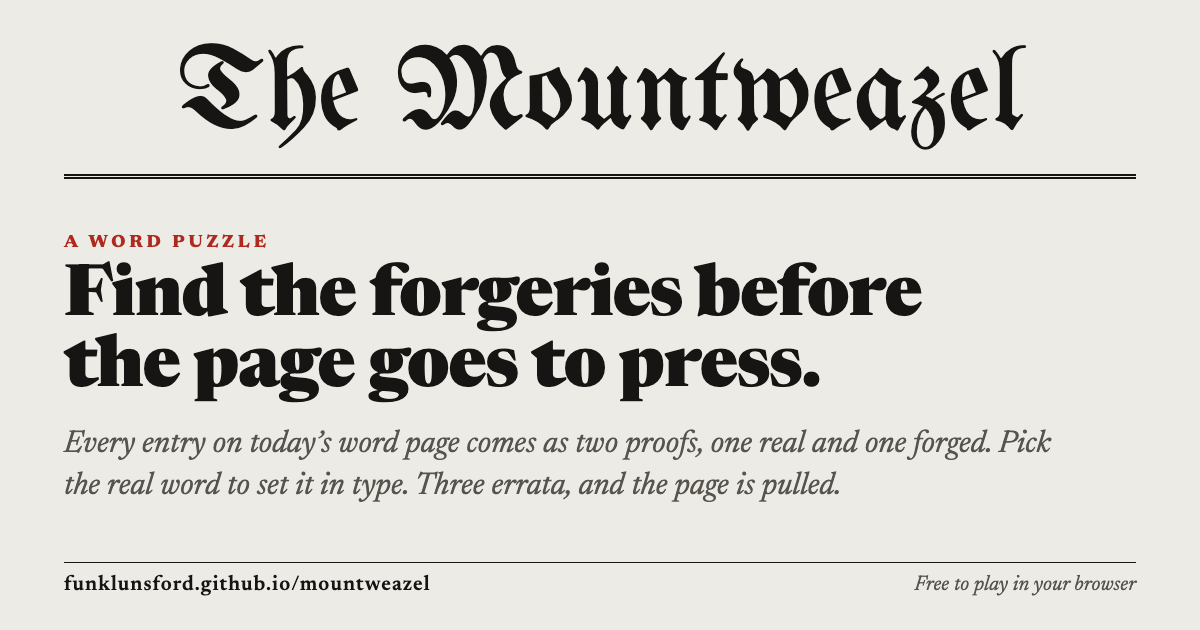
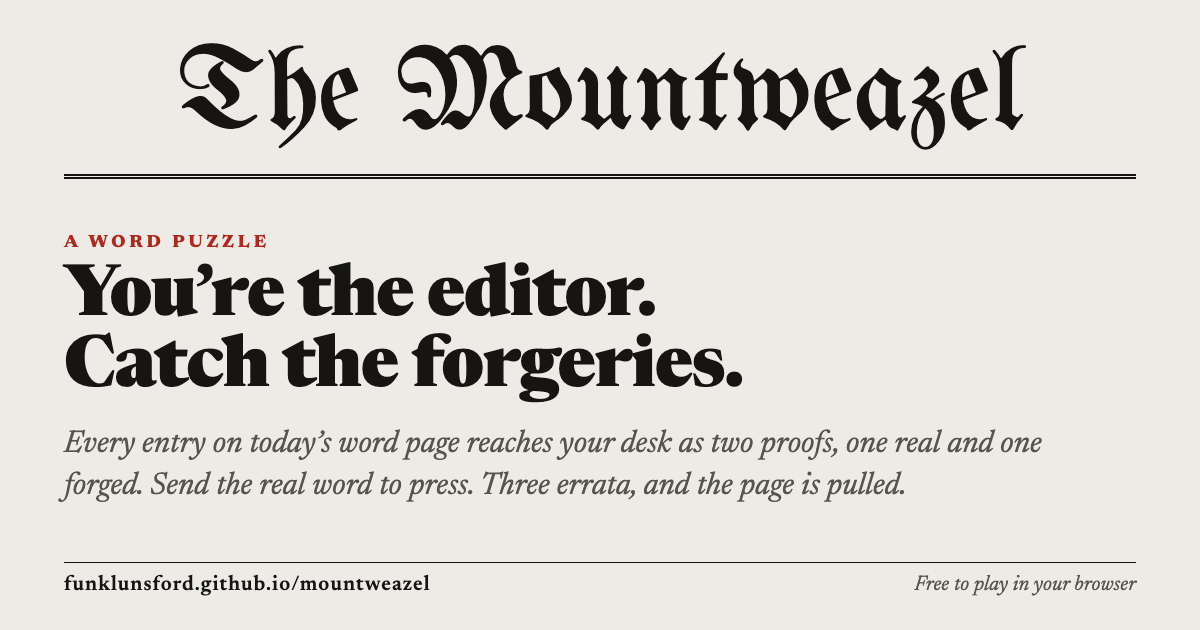
You're the editor; the last of the climb goes
- The game is framed around the player as the paper's editor: the lead
  is "To the editor" / "Forgeries on Today's Word Page", entries reach
  "your desk", each asks "Which goes to press?", and the verdicts and
  the Stop press box speak to you ("Your Page Goes to Press", "Your Page
  Is Pulled at Entry 6", "You set all 12 entries, with 1 erratum").
- No climb is left anywhere: progress is saved as mountweazel-page-N
  (so a climb in progress on the live site starts fresh), and the README
  and .gitignore drop their last mentions.
- The share card says "You're the editor. Catch the forgeries."

Changed region(s): [[0.0308, 0.3921, 0.7708, 0.6635], [0.0617, 0.6635, 0.8942, 0.8143]]

diff --git a/index.html b/index.html
@@ -5,7 +5,7 @@
 <meta name="viewport" content="width=device-width, initial-scale=1, viewport-fit=cover">
 <style>body { margin: 0; }</style>
 <title>Mountweazel</title>
-<meta name="description" content="A word puzzle in the newspaper: every entry on today’s word page comes as two proofs, one real and one forged. Pick the real word to set it in type; a wrong pick goes to press as an erratum, and the third erratum pulls the page. The words grow rarer down the page.">
+<meta name="description" content="A word puzzle in the newspaper, and you’re the editor. Every entry on today’s word page reaches your desk as two proofs, one real and one forged. Send the real word to press; pass a forgery and it’s an erratum, and three errata pull the page. The words grow rarer down the page.">
 <link rel="canonical" href="https://funklunsford.github.io/mountweazel/">
 <meta name="theme-color" content="#ecebe5">
 <meta name="theme-color" media="(prefers-color-scheme: dark)" content="#141413">
@@ -14,31 +14,31 @@
 <!-- Link previews: share/card.html (wide) and share/square.html (square), rendered by `npm run share-card`. -->
 <meta property="og:type" content="website">
 <meta property="og:site_name" content="Mountweazel">
-<meta property="og:title" content="The Mountweazel: find the forgeries on the word page">
-<meta property="og:description" content="A word puzzle in the newspaper: every entry on today’s word page comes as two proofs, one real and one forged. Pick the real word to set it in type; a wrong pick goes to press as an erratum, and the third erratum pulls the page. The words grow rarer down the page.">
+<meta property="og:title" content="The Mountweazel: you’re the editor, and the word page is full of forgeries">
+<meta property="og:description" content="A word puzzle in the newspaper, and you’re the editor. Every entry on today’s word page reaches your desk as two proofs, one real and one forged. Send the real word to press; pass a forgery and it’s an erratum, and three errata pull the page. The words grow rarer down the page.">
 <meta property="og:url" content="https://funklunsford.github.io/mountweazel/">
 <meta property="og:image" content="https://funklunsford.github.io/mountweazel/share/card.png">
 <meta property="og:image:type" content="image/png">
 <meta property="og:image:width" content="1200">
 <meta property="og:image:height" content="630">
-<meta property="og:image:alt" content="The Mountweazel, a word puzzle: find the forgeries before the page goes to press. Every entry comes as two proofs, one real and one forged.">
+<meta property="og:image:alt" content="The Mountweazel, a word puzzle: you’re the editor. Catch the forgeries before they go to press; every entry comes as two proofs, one real and one forged.">
 <meta property="og:image" content="https://funklunsford.github.io/mountweazel/share/square.png">
 <meta property="og:image:type" content="image/png">
 <meta property="og:image:width" content="1200">
 <meta property="og:image:height" content="1200">
 <meta property="og:image:alt" content="A blackletter M in a double-ruled frame, above the words “The Mountweazel, a word puzzle”.">
 <meta name="twitter:card" content="summary_large_image">
-<meta name="twitter:title" content="The Mountweazel: find the forgeries on the word page">
-<meta name="twitter:description" content="A word puzzle in the newspaper: every entry on today’s word page comes as two proofs, one real and one forged. Pick the real word to set it in type; a wrong pick goes to press as an erratum, and the third erratum pulls the page. The words grow rarer down the page.">
+<meta name="twitter:title" content="The Mountweazel: you’re the editor, and the word page is full of forgeries">
+<meta name="twitter:description" content="A word puzzle in the newspaper, and you’re the editor. Every entry on today’s word page reaches your desk as two proofs, one real and one forged. Send the real word to press; pass a forgery and it’s an erratum, and three errata pull the page. The words grow rarer down the page.">
 <meta name="twitter:image" content="https://funklunsford.github.io/mountweazel/share/card.png">
-<meta name="twitter:image:alt" content="The Mountweazel, a word puzzle: find the forgeries before the page goes to press. Every entry comes as two proofs, one real and one forged.">
+<meta name="twitter:image:alt" content="The Mountweazel, a word puzzle: you’re the editor. Catch the forgeries before they go to press; every entry comes as two proofs, one real and one forged.">
 <link rel="preconnect" href="https://fonts.googleapis.com">
 <link rel="preconnect" href="https://fonts.gstatic.com" crossorigin>
 <link rel="stylesheet" href="https://fonts.googleapis.com/css2?family=Caveat:wght@600&family=Newsreader:ital,opsz,wght@0,6..72,400;0,6..72,600;0,6..72,800;1,6..72,400&family=UnifrakturMaguntia&display=swap">
 <style>
-/* A word puzzle inside a newspaper. The masthead and the lead are set like a front page; the game
-   is the word page, which you set one entry at a time from two proofs each. A running head keeps
-   your place and your errata in view. */
+/* A word puzzle inside a newspaper, played as its editor. The masthead and the lead are set like a
+   front page; the game is the word page, which you set one entry at a time from two proofs each. A
+   running head keeps your place and your errata in view. */
 :root {
   --newsprint: #ecebe5; --sheet: #f6f4ee;
   --ink: #161514; --ink-2: #57544d; --rule: #b8b4aa; --shadow: #161514;
@@ -267,8 +267,8 @@ button.card .hw-line { padding-right: 0; }
 <div class="paper">
   <header class="masthead">
     <div class="ear ear-left">
-      <span class="ear-kicker">Today’s page</span>
-      <span>Twelve entries, three errata allowed</span>
+      <span class="ear-kicker">Editor’s desk</span>
+      <span>Twelve entries to pass, three errata allowed</span>
     </div>
     <h1 class="nameplate">The Mountweazel</h1>
     <div class="ear ear-right">
@@ -289,14 +289,14 @@ button.card .hw-line { padding-right: 0; }
 
   <div class="front">
     <article class="lead">
-      <p class="kicker">Lexicography</p>
-      <h2 class="headline">Forgeries Slip Onto the Word Page</h2>
-      <p class="deck">Every entry on today’s page comes as two proofs, one real and one forged. Pick the real word to set it in type. A wrong pick goes to press as an erratum, and the third erratum pulls the page.</p>
+      <p class="kicker">To the editor</p>
+      <h2 class="headline">Forgeries on Today’s Word Page</h2>
+      <p class="deck">You’re the editor. Every entry on today’s word page has come back with a forged twin. Send the real word to press. Pass a forgery and you print an erratum; three errata, and the page is pulled.</p>
       <details class="rules">
         <summary>How to play</summary>
         <div class="story">
-          <p>Tap the proof you think is real. Both are then revealed: where the real word comes from, and how the forgery was made. The entry then takes its place on the word page, the real word in type and the forgery struck out beneath it.</p>
-          <p>The words grow rarer down the page, from the familiar to the all but lost. A wrong pick goes to press as an erratum; at the third, the editor pulls the page.</p>
+          <p>Each entry reaches your desk as two proofs. Tap the one you think is real. Both are then revealed: where the real word comes from, and how the forgery was made. The entry takes its place on your page, the real word in type and the forgery struck out beneath it.</p>
+          <p>The words grow rarer down the page, from the familiar to the all but lost. Pass a forgery and it goes to press as an erratum; at the third erratum, the page is pulled.</p>
           <p>A mountweazel is a fake entry planted in a reference work to catch copiers. With a keyboard, press <kbd>←</kbd> or <kbd>→</kbd> to pick.</p>
         </div>
       </details>

diff --git a/game.js b/game.js
@@ -1,19 +1,17 @@
-/* Mountweazel: a word puzzle in the newspaper. Every entry on today's word page comes as two proofs,
-   one genuine and one forged. Pick the genuine word to set it in type; a wrong pick goes to press as
-   an erratum, and the third erratum pulls the page. The words are in pages.js. */
+/* Mountweazel: a word puzzle in the newspaper, played as its editor. Every entry on today's word
+   page reaches the desk as two proofs, one real and one forged. Send the real word to press; a forgery
+   goes to press as an erratum, and the third erratum pulls the page. The words are in pages.js. */
 'use strict';
 
 if (typeof document !== 'undefined') {
   const ERRATA = 3;
-  // Progress is saved under the names the game had when it was framed as a climb, so a game in
-  // progress carries over.
-  const RULES_KEY = 'mountweazel-climb-rules-seen';
+  const RULES_KEY = 'mountweazel-page-rules-seen';
   const $ = sel => document.querySelector(sel);
   const reduceMotion = window.matchMedia('(prefers-reduced-motion: reduce)').matches;
 
   const page = PAGES[PAGES.length - 1];
   const entries = page.entries;
-  const saveKey = 'mountweazel-climb-' + page.number;
+  const saveKey = 'mountweazel-page-' + page.number;
 
   // picks: the proof picked for each entry so far. seen: how many of those reveals you've moved on from.
   let state = null;
@@ -150,7 +148,7 @@ if (typeof document !== 'undefined') {
       return;
     }
     if (kind === 'frontier' || kind === 'reveal') {
-      const head = el('h3', 'slot-head', kind === 'frontier' ? 'Which word is real?' : `Entry ${i + 1}, revealed`);
+      const head = el('h3', 'slot-head', kind === 'frontier' ? 'Which goes to press?' : `Entry ${i + 1}, revealed`);
       head.append(el('span', 'sh-sub', kind === 'frontier' ? `Entry ${i + 1} of ${entries.length}` : e.band));
       if (kind === 'frontier') head.id = 'prompt';
       const pair = el('div', 'pair' + (arrive && !reduceMotion ? ' arrive' : ''));
@@ -246,11 +244,11 @@ if (typeof document !== 'undefined') {
     const n = errata();
     verdictLine.className = 'verdict-line ' + (right ? 'right' : 'wrong');
     if (right) verdictLine.textContent = complete()
-      ? `Right: ${upper(e.real.word)} is real. The page is complete.`
-      : `Right: ${upper(e.real.word)} is real.`;
-    else if (pulled()) verdictLine.textContent = `${upper(e.fake.word)} was the forgery: erratum ${n} of ${ERRATA}, and the page is pulled.`;
-    else if (complete()) verdictLine.textContent = `${upper(e.fake.word)} was the forgery: erratum ${n} of ${ERRATA}, but the page is complete.`;
-    else verdictLine.textContent = `${upper(e.fake.word)} was the forgery: erratum ${n} of ${ERRATA}.`;
+      ? `Right: ${upper(e.real.word)} is real. Your page is ready for press.`
+      : `Right: ${upper(e.real.word)} is real, and goes to press.`;
+    else if (pulled()) verdictLine.textContent = `${upper(e.fake.word)} was the forgery: erratum ${n} of ${ERRATA}, and your page is pulled.`;
+    else if (complete()) verdictLine.textContent = `${upper(e.fake.word)} was the forgery: erratum ${n} of ${ERRATA}, but your page is ready for press.`;
+    else verdictLine.textContent = `${upper(e.fake.word)} was the forgery, and it went to press: erratum ${n} of ${ERRATA}.`;
     nextBtn.textContent = over() ? 'See the page' : 'Next proof';
   }
 
@@ -260,10 +258,10 @@ if (typeof document !== 'undefined') {
     const stamp = $('#press-stamp');
     stamp.textContent = done ? 'Passed for press' : 'Pulled';
     stamp.className = 'press-stamp ' + (done ? 'pass' : 'pulled');
-    $('#verdict').textContent = done ? (n === 0 ? 'A Clean Page' : 'The Page Goes to Press') : `Page Pulled at Entry ${state.picks.length}`;
+    $('#verdict').textContent = done ? (n === 0 ? 'A Clean Page' : 'Your Page Goes to Press') : `Your Page Is Pulled at Entry ${state.picks.length}`;
     $('#press-stats').textContent = done
-      ? `All ${entries.length} entries set, with ${errataText(n)}.`
-      : `${state.picks.length > ERRATA ? `${state.picks.length - ERRATA} of ${entries.length} entries` : 'No entries'} went in clean before the third erratum, at entry ${state.picks.length}.`;
+      ? `You set all ${entries.length} entries, with ${errataText(n)}.`
+      : `You set ${state.picks.length > ERRATA ? `${state.picks.length - ERRATA} of ${entries.length} entries` : 'no entries'} clean before the third erratum, at entry ${state.picks.length}.`;
     $('#share-text').value = shareText();
   }
 

diff --git a/share/card.html b/share/card.html
@@ -32,8 +32,8 @@ body { background: var(--newsprint); color: var(--ink); font-family: "Newsreader
 
   <div class="lead">
     <p class="kicker">A word puzzle</p>
-    <h2 class="headline">Find the forgeries before the page goes to press.</h2>
-    <p class="deck">Every entry on today’s word page comes as two proofs, one real and one forged. Pick the real word to set it in type. Three errata, and the page is pulled.</p>
+    <h2 class="headline">You’re the editor. Catch the forgeries.</h2>
+    <p class="deck">Every entry on today’s word page reaches your desk as two proofs, one real and one forged. Send the real word to press. Three errata, and the page is pulled.</p>
   </div>
 
   <footer class="foot"><span class="url">funklunsford.github.io/mountweazel</span><span class="tag">Free to play in your browser</span></footer>

diff --git a/README.md b/README.md
@@ -1,6 +1,6 @@
 # Mountweazel
 
-A word puzzle in the newspaper. Every entry on today's word page comes as two proofs, one real old word and one forgery; pick the real word to set it in type. A wrong pick goes to press as an erratum, and the third erratum pulls the page. The words grow rarer down the page.
+A word puzzle in the newspaper, and you're the editor. Every entry on today's word page reaches your desk as two proofs, one real old word and one forgery; send the real word to press. Pass a forgery and it goes to press as an erratum, and the third erratum pulls the page. The words grow rarer down the page.
 
 A *mountweazel* is a fake entry planted in a reference work. The name comes from Lillian Virginia Mountweazel, an invented person slipped into the 1975 New Columbia Encyclopedia.
 
@@ -10,13 +10,13 @@ A *mountweazel* is a fake entry planted in a reference work. The name comes from
 
 Play it at **https://funklunsford.github.io/mountweazel/**, or open `index.html` in a browser. There's no build step and nothing to install.
 
-- **The word page is set one entry at a time.** The current entry shows two proofs, A and B. Tap the one you think is real, or press ← or → on a keyboard. Both are then revealed: the real word's history, with a quotation where there is one, and how the forgery was made.
+- **You set the word page one entry at a time.** The current entry shows two proofs, A and B. Tap the one you think is real, or press ← or → on a keyboard. Both are then revealed: the real word's history, with a quotation where there is one, and how the forgery was made.
 - **Next proof sets the entry.** The real word goes into the page in type, with the forgery struck out beneath it, a ✓ or ✗ in the margin and the history behind a History link.
 - **A wrong pick goes to press as an erratum.** The page carries a note of it, and one of the three erratum boxes in the running head is struck. The third erratum pulls the page.
 - **Bands of rarity divide the page:** Familiar (entries 1–3), Uncommon (4–6), Rare (7–9), Obscure (10–11) and All but lost (12). A band's heading lights up as you reach it.
 - **At the end,** the Stop press box stamps the page passed for press or pulled, and gives you a grid to share (🟩 a real word set, 🟥 an erratum, ⬜ not set). If the page was pulled, the entries it never reached are filled in, greyed.
 
-The browser keeps your progress, so a reload picks up where you left off. It's saved under the `mountweazel-climb-` keys from when the game was framed as a climb, so a game already in progress carries over.
+The browser keeps your progress, so a reload picks up where you left off.
 
 Every merge to `main` runs `npm run check` and, if every page passes, publishes the site (`index.html`, `game.js`, `pages.js` and the images in `share/`) to GitHub Pages; see `.github/workflows/deploy.yml`. Pull requests are checked but not published.
 
@@ -39,7 +39,7 @@ There is one page so far, No. 1. Its words come from the deduction pages that ca
 
 ## Earlier versions
 
-Mountweazel began as a no-guess deduction page, modelled on [Clues by Sam](https://cluesbysam.com): a dictionary page with a few forged entries, where every genuine entry you verified gave a clue about the others. It played well, but it was a logic puzzle more than a word game. That version is in the git history, up to commit `1a08bf2`. The pairs came next, framed for a while as a climb up a mountain; the framing went, and the pairs stayed.
+Mountweazel began as a no-guess deduction page, modelled on [Clues by Sam](https://cluesbysam.com): a dictionary page with a few forged entries, where every genuine entry you verified gave a clue about the others. It played well, but it was a logic puzzle more than a word game. That version is in the git history, up to commit `1a08bf2`; the pairs replaced it.
 
 ## Share card
 
